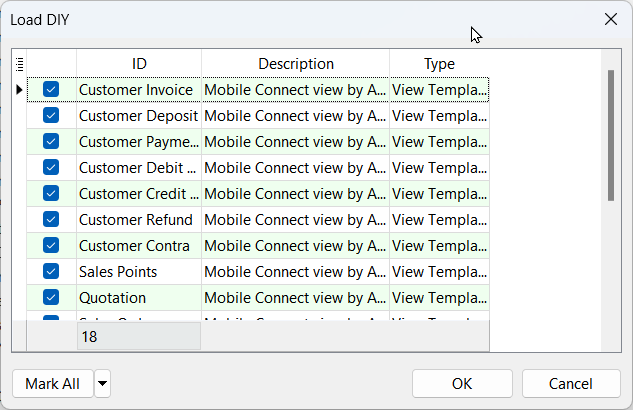
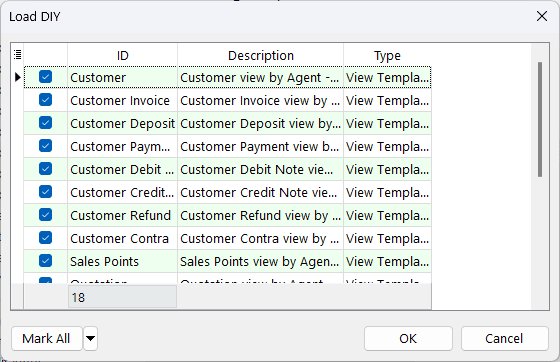
feat: Update how to set user view

diff --git a/docs/integration/sql-mobile-connect/set-user-view.md b/docs/integration/sql-mobile-connect/set-user-view.md
@@ -3,7 +3,7 @@ id: set-user-view
 title: Set User View
 description: A guide to set user view for SQL Mobile Connect
 slug: /sql-mobile-connect/set-user-view
-tags: ["SQL Account", "SQL Mobile Connect", "Setup","User View"]
+tags: ["SQL Account", "SQL Mobile Connect", "Setup", "User View", "View Template"]
 ---
 
 ## 1.0 How to Set User View
@@ -12,34 +12,44 @@ tags: ["SQL Account", "SQL Mobile Connect", "Setup","User View"]
 
 ![1](../../../static/img/sql-mobile-connect/set-user-view/1.png)
 
-**Step 2**: Select **View Template** , then select **Load From File**
+**Step 2**: Switch to **View Template** tab, then click on **Load From File** to select `View Template` to load
 
-> Download: [Mobile Connect View By Agent View Template](https://cdn.sql.com.my/wp-content/uploads/2024/07/Mobile-Connect-View-By-Agent.zip) 
+:::info[Download]
+You can download this **[View Template - View by Agent (Current User)](https://cdn.sql.com.my/wp-content/uploads/2024/08/View-Template-View-by-Agent-Current-User.zip)** and **load** to SQL Account.
+
+This `View Template` will filter document by `Agent`, where `Agent` is match to current login user `Code`.
+:::
 
 ![2](../../../static/img/sql-mobile-connect/set-user-view/2.png)
 
-**Step 3**: Select **Load All** or **Custom**
+**Step 3**: After select a `View Template` file to load, you can select **Load All** or **Custom**
 
 ![3](../../../static/img/sql-mobile-connect/set-user-view/3.png)
 
-If you Select **Custom**, you can choose which table to apply
+- **Load All**: All the template will load.
+- **Custom**: Can select all or some template to load.
+    ![4](../../../static/img/sql-mobile-connect/set-user-view/4.png)
 
-![4](../../../static/img/sql-mobile-connect/set-user-view/4.png)
-
-Once completed, a message will be displayed as shown below.
+Once completed, `Loaded` message will prompt and all `View Template` loaded will show.
 
 ![5](../../../static/img/sql-mobile-connect/set-user-view/5.png)
 
 ![6](../../../static/img/sql-mobile-connect/set-user-view/6.png)
 
-**Step 4**: **Right-click** the field to be set and select **User View**.
+**Step 4**: **Right-click** on View Template and click on **User View**.
 
 ![7](../../../static/img/sql-mobile-connect/set-user-view/7.png)
 
-**Step 5**: **Check** the box to set **User View** [Agent = User], so that the selected user can only view their own documents.
+**Step 5**: A list of `User` will shown, then **tick** on `User View` column for the `User` that want to apply this View Template and click **Save**.
 
 ![8](../../../static/img/sql-mobile-connect/set-user-view/8.png)
 
-Based on the scenario above, SQL Acc will display sales invoices where the agent is set to **SALES** when the **SALES** user ID is logged in.
+Based on the scenario above, `Invoice view by Agent - Current User` View Template is applied to `SALES` user. When `SALES` user login to SQL Account, the user only can view those `Invoice` with `Agent` code equal to `SALES`
 
-Thank You.
+- Login by **SALES**
+
+    ![9](../../../static/img/sql-mobile-connect/set-user-view/9.png)
+
+- Login by **ADMIN**
+
+    ![10](../../../static/img/sql-mobile-connect/set-user-view/10.png)
